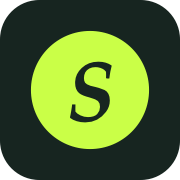
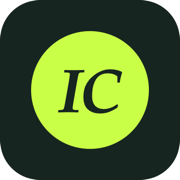
Rename the site to Interview Copilot Guide

diff --git a/i18n/messages/hi.ts b/i18n/messages/hi.ts
@@ -2,7 +2,7 @@ import type { Messages } from "./en";
 
 export const hi: Messages = {
   nav: {
-    brandAria: "Signalboard होम",
+    brandAria: "इंटरव्यू कोपायलट गाइड होम",
     choose: "कैसे चुनें",
     directory: "उत्पाद तुलना",
     shortlist: "त्वरित सुझाव",
@@ -186,7 +186,7 @@ export const hi: Messages = {
     description: "69 रियल-टाइम AI इंटरव्यू कोपायलट की 2026 तुलना: कीमत, मुफ़्त प्लान, डेस्कटॉप बनाम ब्राउज़र, प्राइवेसी दावे, भाषा समर्थन और AI मॉडल। अगस्त 2026 में अपडेट।",
     ogTitle: "इंटरव्यू कोपायलट गाइड 2026 — 69 AI इंटरव्यू असिस्टेंट की तुलना",
     ogDescription: "69 रियल-टाइम AI इंटरव्यू असिस्टेंट की कीमत, सेटअप, प्राइवेसी, भाषाओं और मॉडलों की तुलना करें। स्रोत-लिंक्ड।",
-    keywords: "इंटरव्यू कोपायलट, AI इंटरव्यू असिस्टेंट, रियल-टाइम इंटरव्यू AI, इंटरव्यू AI तुलना, इंटरव्यू में AI मदद",
-    imageAlt: "Signalboard इंटरव्यू कोपायलट गाइड — रियल-टाइम AI इंटरव्यू असिस्टेंट की तुलना",
+    keywords: "इंटरव्यू कोपायलट, AI इंटरव्यू असिस्टेंट, रियल टाइम इंटरव्यू असिस्टेंट, लाइव इंटरव्यू AI, इंटरव्यू में AI मदद, इंटरव्यू AI तुलना, सर्वश्रेष्ठ इंटरव्यू कोपायलट 2026, इंटरव्यू कोपायलट कीमत, कोडिंग इंटरव्यू AI, टेक्निकल इंटरव्यू असिस्टेंट, इंटरव्यू ट्रांसक्रिप्शन AI, अनडिटेक्टेबल इंटरव्यू असिस्टेंट, दूसरा डिवाइस इंटरव्यू असिस्टेंट, बहुभाषी इंटरव्यू असिस्टेंट",
+    imageAlt: "इंटरव्यू कोपायलट गाइड — रियल-टाइम AI इंटरव्यू असिस्टेंट की तुलना",
   },
 };

diff --git a/i18n/messages/ru.ts b/i18n/messages/ru.ts
@@ -2,7 +2,7 @@ import type { Messages } from "./en";
 
 export const ru: Messages = {
   nav: {
-    brandAria: "Главная Signalboard",
+    brandAria: "Главная страница справочника ИИ-помощников",
     choose: "Как выбрать",
     directory: "Сравнить продукты",
     shortlist: "Быстрый подбор",
@@ -186,7 +186,7 @@ export const ru: Messages = {
     description: "Сравнение 69 ИИ-помощников для собеседований в реальном времени (2026): цены, бесплатные тарифы, десктоп или браузер, заявления о приватности, языки и модели ИИ. Обновлено в августе 2026 года.",
     ogTitle: "Справочник ИИ-помощников для собеседований 2026 — 69 сервисов",
     ogDescription: "Сравните цены, способ запуска, приватность, языки и модели 69 ИИ-помощников для собеседований в реальном времени. Со ссылками на источники.",
-    keywords: "ИИ помощник на собеседовании, ИИ для интервью, помощник для собеседования в реальном времени, сравнение ИИ помощников, подсказки на собеседовании ИИ",
-    imageAlt: "Справочник Signalboard по ИИ-помощникам для собеседований — сравнение сервисов реального времени",
+    keywords: "ИИ помощник на собеседовании, ИИ для интервью, помощник для собеседования в реальном времени, ассистент собеседования реального времени, подсказки на собеседовании ИИ, сравнение ИИ помощников для интервью, лучший помощник для собеседования 2026, цены ИИ помощник интервью, ИИ для технического собеседования, помощник для собеседования по программированию, расшифровка интервью ИИ, незаметный помощник на собеседовании, помощник на втором устройстве, многоязычный помощник для собеседований",
+    imageAlt: "Справочник ИИ-помощников для собеседований — сравнение сервисов реального времени",
   },
 };

diff --git a/i18n/messages/ar.ts b/i18n/messages/ar.ts
@@ -2,7 +2,7 @@ import type { Messages } from "./en";
 
 export const ar: Messages = {
   nav: {
-    brandAria: "الصفحة الرئيسية لـ Signalboard",
+    brandAria: "الصفحة الرئيسية لدليل مساعدي المقابلات",
     choose: "كيف تختار",
     directory: "مقارنة المنتجات",
     shortlist: "اختيارات سريعة",
@@ -186,7 +186,7 @@ export const ar: Messages = {
     description: "مقارنة لعام 2026 بين 69 مساعد مقابلات فوري بالذكاء الاصطناعي: الأسعار والخطط المجانية وسطح المكتب مقابل المتصفح وادعاءات الخصوصية ودعم اللغات والنماذج. محدَّث في أغسطس 2026.",
     ogTitle: "دليل مساعدي المقابلات 2026 — مقارنة 69 مساعدًا بالذكاء الاصطناعي",
     ogDescription: "قارن الأسعار وطريقة التشغيل ونهج الخصوصية واللغات والنماذج عبر 69 مساعد مقابلات فوري. مصادر موثقة.",
-    keywords: "مساعد المقابلات, مساعد مقابلات بالذكاء الاصطناعي, ذكاء اصطناعي للمقابلات الفورية, مقارنة مساعدي المقابلات, أسعار مساعد المقابلات",
-    imageAlt: "دليل Signalboard لمساعدي المقابلات — مقارنة مساعدي المقابلات الفوريين بالذكاء الاصطناعي",
+    keywords: "مساعد المقابلات, مساعد مقابلات بالذكاء الاصطناعي, مساعد مقابلات فوري, ذكاء اصطناعي للمقابلات المباشرة, مقارنة مساعدي المقابلات, أفضل مساعد مقابلات 2026, أسعار مساعد المقابلات, ذكاء اصطناعي لمقابلات البرمجة, مساعد المقابلات التقنية, تفريغ المقابلات بالذكاء الاصطناعي, مساعد مقابلات غير قابل للاكتشاف, مساعد مقابلات على جهاز ثانٍ, مساعد مقابلات متعدد اللغات",
+    imageAlt: "دليل مساعدي المقابلات — مقارنة مساعدي المقابلات الفوريين بالذكاء الاصطناعي",
   },
 };

diff --git a/i18n/messages/en.ts b/i18n/messages/en.ts
@@ -4,7 +4,7 @@
  */
 export const en = {
   nav: {
-    brandAria: "Signalboard home",
+    brandAria: "Interview Copilot Guide home",
     choose: "How to choose",
     directory: "Compare products",
     shortlist: "Quick picks",
@@ -185,11 +185,11 @@ export const en = {
   seo: {
     title: "Interview Copilot Guide 2026 — Compare 69 Real-Time AI Interview Assistants",
     shortTitle: "Interview Copilot Guide",
-    description: "2026 comparison of 69 real-time AI interview copilots: pricing, free plans, desktop vs browser setup, privacy claims, language support and AI models. Updated August 2026.",
+    description: "Compare 69 real-time AI interview copilots and live interview assistants: pricing, free plans, desktop vs browser, privacy claims, languages and AI models. Updated August 2026.",
     ogTitle: "Interview Copilot Guide 2026 — Compare 69 Real-Time AI Interview Assistants",
     ogDescription: "Compare pricing, setup, privacy approach, languages and models across 69 real-time AI interview assistants. Source-linked and reviewed in August 2026.",
-    keywords: "interview copilot, AI interview assistant, real-time interview AI, interview AI comparison, AI interview helper, live interview assistant, interview copilot pricing",
-    imageAlt: "Signalboard interview copilot guide — comparison of real-time AI interview assistants",
+    keywords: "interview copilot, AI interview assistant, real time interview assistant, real-time interview AI, live interview assistant, AI interview helper, interview AI comparison, best interview copilot 2026, interview copilot pricing, AI assistant for job interviews, coding interview AI assistant, technical interview copilot, interview transcription AI, AI answers during interview, undetectable interview assistant, screen share safe interview assistant, second device interview assistant, multilingual interview assistant, interview copilot free trial, interview copilot alternatives",
+    imageAlt: "Interview Copilot Guide — comparison of real-time AI interview assistants",
   },
 } as const;
 

diff --git a/i18n/messages/es.ts b/i18n/messages/es.ts
@@ -2,7 +2,7 @@ import type { Messages } from "./en";
 
 export const es: Messages = {
   nav: {
-    brandAria: "Inicio de Signalboard",
+    brandAria: "Inicio de la Guía de copilotos de entrevista",
     choose: "Cómo elegir",
     directory: "Comparar productos",
     shortlist: "Recomendaciones rápidas",
@@ -186,7 +186,7 @@ export const es: Messages = {
     description: "Comparativa 2026 de 69 copilotos de entrevista con IA en tiempo real: precios, planes gratuitos, escritorio o navegador, privacidad, idiomas y modelos. Actualizada en agosto de 2026.",
     ogTitle: "Guía de copilotos de entrevista 2026 — 69 asistentes de IA comparados",
     ogDescription: "Compara precios, instalación, privacidad, idiomas y modelos de 69 asistentes de entrevista con IA en tiempo real. Con fuentes enlazadas.",
-    keywords: "copiloto de entrevista, asistente de entrevista con IA, IA para entrevistas en tiempo real, comparativa de copilotos de entrevista, ayuda para entrevistas con IA",
-    imageAlt: "Guía Signalboard de copilotos de entrevista: comparativa de asistentes de IA en tiempo real",
+    keywords: "copiloto de entrevista, asistente de entrevista con IA, asistente de entrevista en tiempo real, IA para entrevistas en vivo, ayuda con IA en entrevistas, comparativa de copilotos de entrevista, mejor copiloto de entrevista 2026, precio copiloto de entrevista, IA para entrevistas de programación, copiloto entrevista técnica, transcripción de entrevistas con IA, asistente de entrevista indetectable, asistente de entrevista segundo dispositivo, asistente de entrevista multilingüe, alternativas a copiloto de entrevista",
+    imageAlt: "Guía de copilotos de entrevista: comparativa de asistentes de IA en tiempo real",
   },
 };

diff --git a/i18n/messages/pt.ts b/i18n/messages/pt.ts
@@ -2,7 +2,7 @@ import type { Messages } from "./en";
 
 export const pt: Messages = {
   nav: {
-    brandAria: "Início da Signalboard",
+    brandAria: "Início do Guia de copilotos de entrevista",
     choose: "Como escolher",
     directory: "Comparar produtos",
     shortlist: "Escolhas rápidas",
@@ -186,7 +186,7 @@ export const pt: Messages = {
     description: "Comparativo 2026 de 69 copilotos de entrevista com IA em tempo real: preços, planos gratuitos, desktop x navegador, privacidade, idiomas e modelos de IA. Atualizado em agosto de 2026.",
     ogTitle: "Guia de Copilotos de Entrevista 2026 — 69 assistentes de IA comparados",
     ogDescription: "Compare preços, configuração, privacidade, idiomas e modelos em 69 assistentes de entrevista com IA em tempo real. Com fontes verificáveis.",
-    keywords: "copiloto de entrevista, assistente de entrevista com IA, IA para entrevista em tempo real, comparativo de copilotos de entrevista, ajuda com IA em entrevista",
-    imageAlt: "Guia Signalboard de copilotos de entrevista — comparativo de assistentes de IA em tempo real",
+    keywords: "copiloto de entrevista, assistente de entrevista com IA, assistente de entrevista em tempo real, IA para entrevista ao vivo, ajuda com IA na entrevista, comparativo de copilotos de entrevista, melhor copiloto de entrevista 2026, preço copiloto de entrevista, IA para entrevista de programação, copiloto entrevista técnica, transcrição de entrevista com IA, assistente de entrevista indetectável, assistente de entrevista segundo dispositivo, assistente de entrevista multilíngue",
+    imageAlt: "Guia de copilotos de entrevista — comparativo de assistentes de IA em tempo real",
   },
 };

diff --git a/i18n/messages/fr.ts b/i18n/messages/fr.ts
@@ -2,7 +2,7 @@ import type { Messages } from "./en";
 
 export const fr: Messages = {
   nav: {
-    brandAria: "Accueil Signalboard",
+    brandAria: "Accueil du Guide des copilotes d’entretien",
     choose: "Comment choisir",
     directory: "Comparer les produits",
     shortlist: "Choix rapides",
@@ -186,7 +186,7 @@ export const fr: Messages = {
     description: "Comparatif 2026 de 69 copilotes d’entretien par IA en temps réel : prix, offres gratuites, bureau ou navigateur, confidentialité, langues et modèles d’IA. Mis à jour en août 2026.",
     ogTitle: "Guide des copilotes d’entretien 2026 — 69 assistants IA comparés",
     ogDescription: "Comparez prix, installation, confidentialité, langues et modèles de 69 assistants d’entretien en temps réel. Sources vérifiables.",
-    keywords: "copilote d’entretien, assistant d’entretien IA, IA entretien en temps réel, comparatif copilotes d’entretien, aide IA pour entretien d’embauche",
-    imageAlt: "Guide Signalboard des copilotes d’entretien — comparatif des assistants IA en temps réel",
+    keywords: "copilote d’entretien, assistant d’entretien IA, assistant d’entretien en temps réel, IA entretien en direct, aide IA entretien d’embauche, comparatif copilotes d’entretien, meilleur copilote d’entretien 2026, prix copilote d’entretien, IA entretien technique, assistant entretien de code, transcription d’entretien IA, assistant d’entretien indétectable, assistant d’entretien second appareil, assistant d’entretien multilingue",
+    imageAlt: "Guide des copilotes d’entretien — comparatif des assistants IA en temps réel",
   },
 };

diff --git a/i18n/messages/ja.ts b/i18n/messages/ja.ts
@@ -2,7 +2,7 @@ import type { Messages } from "./en";
 
 export const ja: Messages = {
   nav: {
-    brandAria: "Signalboard ホーム",
+    brandAria: "面接AIアシスタント ガイド ホーム",
     choose: "選び方",
     directory: "製品を比較",
     shortlist: "早見ガイド",
@@ -186,7 +186,7 @@ export const ja: Messages = {
     description: "リアルタイム面接AIアシスタント69製品の比較（2026年版）。価格・無料プラン・デスクトップ／ブラウザ・プライバシーの主張・対応言語・AIモデルを網羅。2026年8月更新。",
     ogTitle: "面接AIアシスタント比較ガイド 2026 — 69製品を比較",
     ogDescription: "リアルタイム面接AIアシスタント69製品の価格・導入方法・プライバシー・言語・モデルを比較。出典付き。",
-    keywords: "面接AI, 面接アシスタント, リアルタイム面接AI, 面接AI 比較, AI 面接 サポート, 面接 カンペ AI",
-    imageAlt: "Signalboard 面接AIアシスタントガイド — リアルタイム面接AIの比較",
+    keywords: "面接AI, 面接アシスタント, リアルタイム面接アシスタント, リアルタイム面接AI, 面接 AI 比較, 2026 おすすめ 面接AI, 面接AI 料金, ライブ面接 AI サポート, コーディング面接 AI, 技術面接 アシスタント, 面接 文字起こし AI, バレない 面接AI, 画面共有 面接 アシスタント, 別端末 面接AI, 多言語 面接アシスタント",
+    imageAlt: "面接AIアシスタント ガイド — リアルタイム面接AIの比較",
   },
 };

diff --git a/i18n/messages/ko.ts b/i18n/messages/ko.ts
@@ -2,7 +2,7 @@ import type { Messages } from "./en";
 
 export const ko: Messages = {
   nav: {
-    brandAria: "Signalboard 홈",
+    brandAria: "면접 어시스턴트 가이드 홈",
     choose: "선택 방법",
     directory: "제품 비교",
     shortlist: "빠른 추천",
@@ -186,7 +186,7 @@ export const ko: Messages = {
     description: "실시간 AI 면접 어시스턴트 69개를 비교한 2026년 가이드. 가격, 무료 플랜, 데스크톱과 브라우저, 프라이버시 주장, 언어 지원, AI 모델까지. 2026년 8월 업데이트.",
     ogTitle: "면접 AI 어시스턴트 가이드 2026 — 69개 제품 비교",
     ogDescription: "실시간 AI 면접 어시스턴트 69개의 가격, 설치 방식, 프라이버시, 언어, 모델을 비교하세요. 출처가 명시된 가이드입니다.",
-    keywords: "면접 AI, AI 면접 어시스턴트, 실시간 면접 AI, 면접 AI 비교, 면접 도우미 AI, 면접 코파일럿",
-    imageAlt: "Signalboard 면접 AI 어시스턴트 가이드 — 실시간 AI 면접 도구 비교",
+    keywords: "면접 AI, AI 면접 어시스턴트, 실시간 면접 어시스턴트, 실시간 면접 AI, 면접 AI 비교, 2026 최고의 면접 코파일럿, 면접 코파일럿 가격, 라이브 면접 AI 도움, 코딩 면접 AI, 기술 면접 어시스턴트, 면접 전사 AI, 탐지 안 되는 면접 어시스턴트, 화면 공유 면접 어시스턴트, 보조 기기 면접 AI, 다국어 면접 어시스턴트",
+    imageAlt: "면접 AI 어시스턴트 가이드 — 실시간 AI 면접 도구 비교",
   },
 };

diff --git a/i18n/messages/de.ts b/i18n/messages/de.ts
@@ -2,7 +2,7 @@ import type { Messages } from "./en";
 
 export const de: Messages = {
   nav: {
-    brandAria: "Signalboard Startseite",
+    brandAria: "Startseite des Interview-Copilot-Leitfadens",
     choose: "So wählen Sie",
     directory: "Produkte vergleichen",
     shortlist: "Schnellempfehlungen",
@@ -186,7 +186,7 @@ export const de: Messages = {
     description: "Vergleich 2026 von 69 Echtzeit-KI-Interview-Copiloten: Preise, Gratispläne, Desktop oder Browser, Datenschutzaussagen, Sprachunterstützung und KI-Modelle. Aktualisiert im August 2026.",
     ogTitle: "Interview-Copilot-Leitfaden 2026 — 69 KI-Interviewassistenten im Vergleich",
     ogDescription: "Vergleichen Sie Preise, Einrichtung, Datenschutz, Sprachen und Modelle von 69 Echtzeit-KI-Interviewassistenten. Mit belegten Quellen.",
-    keywords: "Interview Copilot, KI Interview Assistent, Echtzeit Interview KI, Interview KI Vergleich, KI Hilfe Vorstellungsgespräch",
-    imageAlt: "Signalboard Interview-Copilot-Leitfaden — Vergleich von Echtzeit-KI-Interviewassistenten",
+    keywords: "Interview Copilot, KI Interview Assistent, Echtzeit Interview Assistent, KI im Vorstellungsgespräch, Live Interview KI, Interview KI Vergleich, bester Interview Copilot 2026, Interview Copilot Preise, KI für Coding Interviews, technischer Interview Assistent, Interview Transkription KI, unsichtbarer Interview Assistent, Interview Assistent Zweitgerät, mehrsprachiger Interview Assistent",
+    imageAlt: "Interview-Copilot-Leitfaden — Vergleich von Echtzeit-KI-Interviewassistenten",
   },
 };

diff --git a/i18n/messages/zh.ts b/i18n/messages/zh.ts
@@ -2,7 +2,7 @@ import type { Messages } from "./en";
 
 export const zh: Messages = {
   nav: {
-    brandAria: "Signalboard 首页",
+    brandAria: "面试助手指南首页",
     choose: "如何选择",
     directory: "产品对比",
     shortlist: "快速推荐",
@@ -186,7 +186,7 @@ export const zh: Messages = {
     description: "2026 年 69 款实时 AI 面试助手横向对比：价格、免费方案、桌面端与浏览器、隐私声明、语言支持与 AI 模型。2026 年 8 月更新。",
     ogTitle: "2026 面试 AI 助手指南 — 69 款实时助手横向对比",
     ogDescription: "对比 69 款实时 AI 面试助手的价格、使用方式、隐私策略、语言与模型，来源可查。",
-    keywords: "面试助手, AI 面试助手, 实时面试 AI, 面试 AI 对比, 面试辅助工具, 面试助手价格",
-    imageAlt: "Signalboard 面试助手指南 — 实时 AI 面试助手对比",
+    keywords: "面试助手, AI 面试助手, 实时面试助手, 实时面试 AI, 面试 AI 对比, 2026 最佳面试助手, 面试助手价格, 面试实时提词, 编程面试 AI 助手, 技术面试助手, 面试转写 AI, 面试 AI 提示, 隐形面试助手, 屏幕共享 面试助手, 第二设备 面试助手, 多语言面试助手, 面试助手免费试用, 面试助手替代品",
+    imageAlt: "面试 AI 助手指南 — 实时 AI 面试助手对比",
   },
 };

diff --git a/app/MarketResearch.tsx b/app/MarketResearch.tsx
@@ -189,8 +189,8 @@ export function MarketResearch({ locale, messages, basePath = "/" }: {
     <main>
       <nav className="topbar" aria-label={t.nav.primaryNavAria}>
         <a className="brand" href="#top" aria-label={t.nav.brandAria}>
-          <span className="brand-mark">S</span>
-          <span>SIGNALBOARD <em>/ 26</em></span>
+          <span className="brand-mark">IC</span>
+          <span>INTERVIEW COPILOT <em>/ GUIDE</em></span>
         </a>
         <div className="nav-links">
           <a href="#choose">{t.nav.choose}</a>
@@ -457,7 +457,7 @@ export function MarketResearch({ locale, messages, basePath = "/" }: {
 
       <footer>
         <div className="footer-top">
-          <div className="brand"><span className="brand-mark">S</span><span>SIGNALBOARD <em>/ 26</em></span></div>
+          <div className="brand"><span className="brand-mark">IC</span><span>INTERVIEW COPILOT <em>/ GUIDE</em></span></div>
           <p>{t.footer.tagline} {researchDate}</p>
           <a href="#top">{t.footer.backToTop} ↑</a>
         </div>
